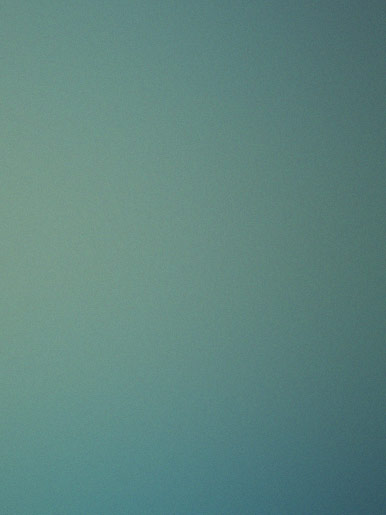
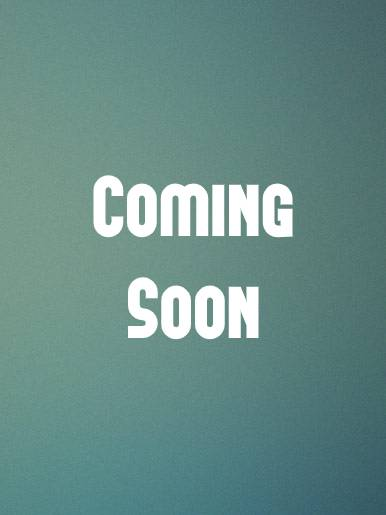
updated thumbs

Changed region(s): [[0.2176, 0.3417, 0.7772, 0.466], [0.3109, 0.5282, 0.6839, 0.6835]]

diff --git a/index.html b/index.html
@@ -64,14 +64,14 @@
 					<div class="row gtr-0">
 						<div class="col-3 col-12-mobile"><a href="images/fulls/firestarfull.jpg" class="image fit"><img src="images/thumbs/firestarthumb.jpg" alt="" title="https://github.com/phooozi/FireStar-Game"></a></div>
 						<div class="col-3 col-12-mobile"><a href="images/fulls/WorldoweFull.jpg" class="image fit"><img src="images/thumbs/Worldowethumb.jpg" alt="" title="www.worldowe.com" /></a></div>
-						<div class="col-3 col-12-mobile"><a href="images/fulls/firestarfull.jpg" class="image fit"><img src="images/thumbs/firestarthumb.jpg" alt="" title="Raven" /></a></div>
-						<div class="col-3 col-12-mobile"><a href="images/fulls/04.jpg" class="image fit"><img src="images/thumbs/04.jpg" alt="" title="I'll have a cup of Disneyland, please" /></a></div>
+						<div class="col-3 col-12-mobile"><a href="images/fulls/05.jpg" class="image fit"><img src="images/thumbs/05.jpg" alt="" title="Coming Soon" /></a></div>
+						<div class="col-3 col-12-mobile"><a href="images/fulls/05.jpg" class="image fit"><img src="images/thumbs/05.jpg" alt="" title="Coming Soon" /></a></div>
 					</div>
 					<div class="row gtr-0">
-						<div class="col-3 col-12-mobile"><a href="images/fulls/05.jpg" class="image fit"><img src="images/thumbs/05.jpg" alt="" title="Cherish" /></a></div>
-						<div class="col-3 col-12-mobile"><a href="images/fulls/06.jpg" class="image fit"><img src="images/thumbs/06.jpg" alt="" title="Different." /></a></div>
-						<div class="col-3 col-12-mobile"><a href="images/fulls/07.jpg" class="image fit"><img src="images/thumbs/07.jpg" alt="" title="History was made here" /></a></div>
-						<div class="col-3 col-12-mobile"><a href="images/fulls/08.jpg" class="image fit"><img src="images/thumbs/08.jpg" alt="" title="People come and go and walk away" /></a></div>
+						<div class="col-3 col-12-mobile"><a href="images/fulls/05.jpg" class="image fit"><img src="images/thumbs/05.jpg" alt="" title="Coming Soon" /></a></div>
+						<div class="col-3 col-12-mobile"><a href="images/fulls/05.jpg" class="image fit"><img src="images/thumbs/05.jpg" alt="" title="Coming Soon" /></a></div>
+						<div class="col-3 col-12-mobile"><a href="images/fulls/05.jpg" class="image fit"><img src="images/thumbs/05.jpg" alt="" title="Coming Soon" /></a></div>
+						<div class="col-3 col-12-mobile"><a href="images/fulls/05.jpg" class="image fit"><img src="images/thumbs/05.jpg" alt="" title="Coming Soon" /></a></div>
 					</div>
 				</div>
 			</article>
